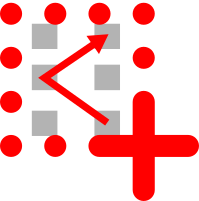
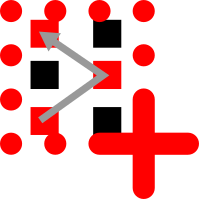
fixed probe plot autosizing and probe location

diff --git a/pixelmap/gui/gui.py b/pixelmap/gui/gui.py
@@ -1525,7 +1525,7 @@ class ChannelmapGUI(param.Parameterized):
         ]
 
         self.plot = figure(
-            width=self.probe_plot_width,
+            sizing_mode="stretch_width",
             height=self.probe_plot_height,
             tools=tools,
             title=f"Neuropixels {self.probe_type} Electrode Layout",
@@ -1541,6 +1541,19 @@ class ChannelmapGUI(param.Parameterized):
         # Create electrode data and visualization
         self.create_electrode_data()
         self.setup_electrode_visualization()
+
+        # Set initial y_range so only the bottom third of the probe is visible:
+        # probe tips pinned at the bottom, top two-thirds hidden above the frame.
+        all_y = self.electrode_source.data["y"]
+        _min_y = min(all_y)
+        _max_y = max(all_y)
+        _probe_height = _max_y - _min_y
+        _tip_overhang = _probe_height * 0.08  # matches tip_height ratio in add_shank_outlines
+        self.plot.y_range = Range1d(
+            start=_min_y - _tip_overhang - 300,     # a little below the tip
+            end=_min_y + _probe_height / 3,          # 1/3 of probe height up from tip
+        )
+
         self.setup_interactions()  # Only necessary for the tap tool
 
         # Hidden data source for tool state communication and CustomJS to monitor tool changes
@@ -1721,12 +1734,9 @@ class ChannelmapGUI(param.Parameterized):
             align="center",
         )
 
-        # Bokeh pane with proper scrolling - larger viewport for better visibility
-        self.plot_pane = pn.pane.Bokeh(
-            self.plot,
-            width=self.probe_plot_width,
-            height=self.probe_plot_height,  # Larger viewport height for better electrode visibility
-        )
+        # Bokeh pane - let the Bokeh figure's own sizing_mode/height control rendering.
+        # Do not impose Panel-level height; the container crops via CSS overflow.
+        self.plot_pane = pn.pane.Bokeh(self.plot)
 
         # Reference and gain inputs
         self.reference_selector_widget = pn.Param(
@@ -2122,12 +2132,48 @@ class ChannelmapGUI(param.Parameterized):
             scroll=False,
         )
 
-        # Main layout with properly scrollable plot container
+        # JS that auto-scrolls the probe container to the bottom on load
+        # so the probe tips are visible first, with the base above (scroll up to see).
+        scroll_to_bottom_pane = pn.pane.HTML(
+            """
+            <script>
+            (function() {
+              function scrollProbeToBottom() {
+                var container = document.querySelector('.probe-plot-container');
+                if (container) {
+                  container.scrollTop = container.scrollHeight;
+                } else {
+                  setTimeout(scrollProbeToBottom, 100);
+                }
+              }
+              if (document.readyState === 'complete') {
+                scrollProbeToBottom();
+              } else {
+                window.addEventListener('load', scrollProbeToBottom);
+              }
+            })();
+            </script>
+            """,
+            width=0,
+            height=0,
+            margin=0,
+        )
+
+        # Central plot container: fills remaining width between the two side columns,
+        # height locked to the browser viewport. The probe figure is taller than 100vh
+        # so it is cropped vertically (scrollable) with the tip visible at the bottom.
         central_plot_container = pn.Column(
+            scroll_to_bottom_pane,
             self.plot_pane,
-            width=self.probe_plot_width,
-            height=self.probe_plot_height,  # Match the plot pane height
-            scroll=True,  # Enable scrolling for the plot container
+            sizing_mode="stretch_width",
+            min_width=300,
+            css_classes=["probe-plot-container"],
+            styles={
+                "height": "100vh",
+                "overflow-y": "auto",
+                "overflow-x": "auto",
+            },
+            scroll=False,
         )
 
         layout = pn.Row(
@@ -2135,7 +2181,7 @@ class ChannelmapGUI(param.Parameterized):
             pn.Spacer(width=370),  # Spacer for fixed controls panel on left
             central_plot_container,
             right_column,
-            sizing_mode="fixed",
+            sizing_mode="stretch_width",
         )
 
         return layout
